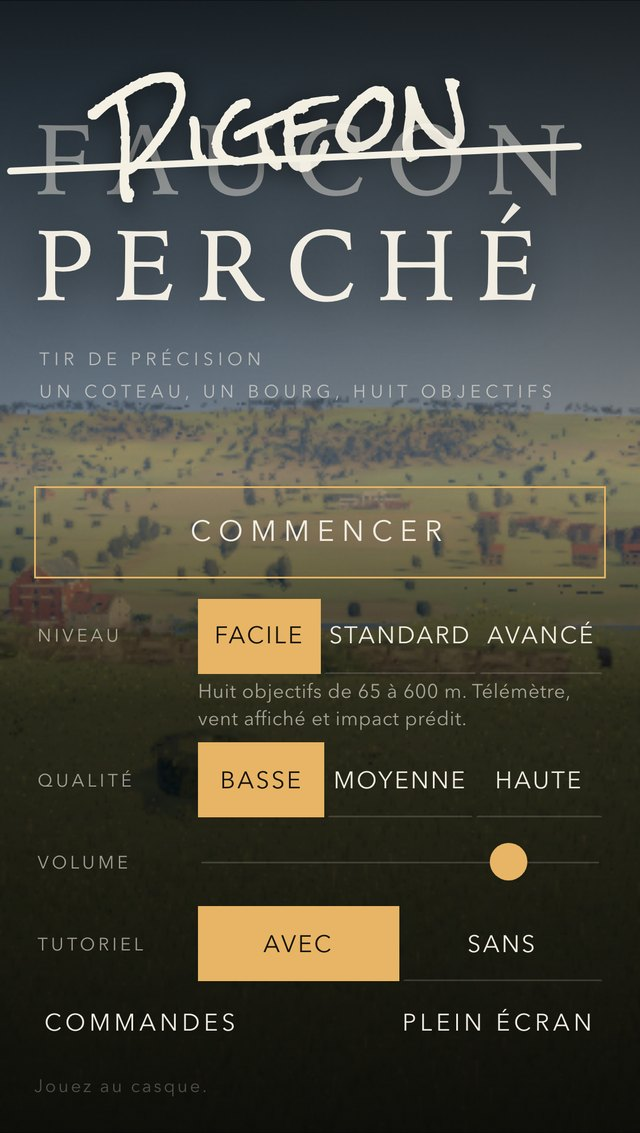
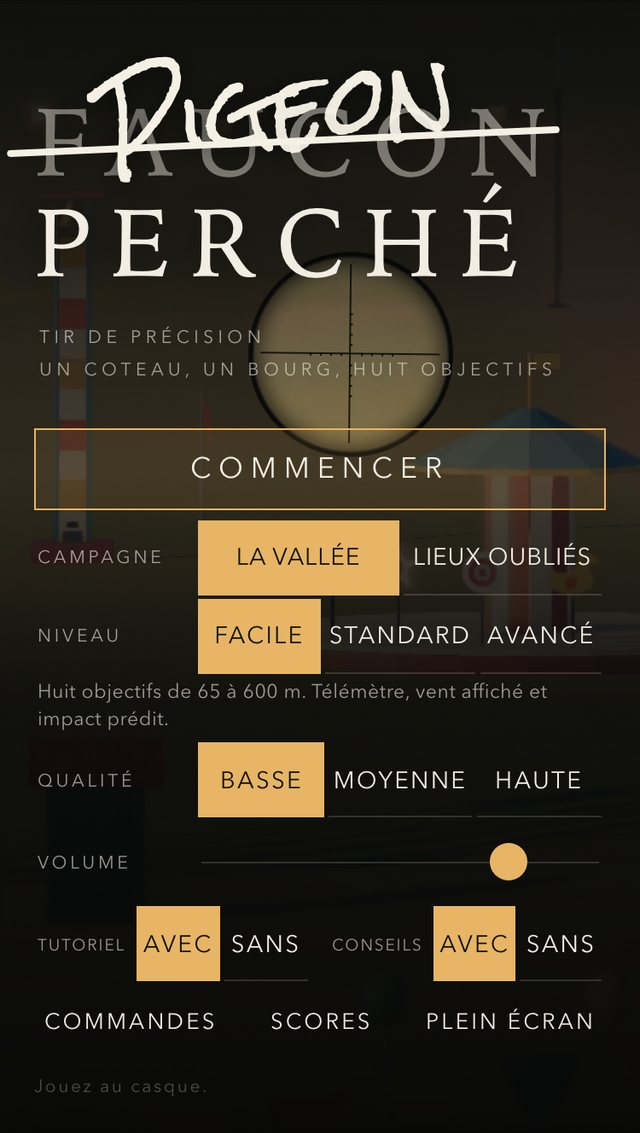
README : captures des nouvelles cartes et du menu, le mrad et le vent expliqués, tirs d'adresse, bouton Conseil, téléphone, tests

diff --git a/README.md b/README.md
@@ -40,7 +40,7 @@ npm install
 npm run dev
 ```
 
-Ouvrez l'adresse affichée (http://127.0.0.1:5173). Jouez au casque. Le premier chargement d'une carte prend quelques secondes.
+Ouvrez l'adresse affichée (http://127.0.0.1:5173). Jouez au casque. Le menu s'affiche tout de suite, sur des vues de cibles prises à la lunette ; la carte choisie se charge en quelques secondes quand on clique sur « Commencer ».
 
 ### Construire la version statique
 
@@ -65,9 +65,9 @@ Les reliefs sont fournis dans `public/terrain/<niveau>/`. Pour les recalculer ap
 
 ```bash
 npm run gen:terrain -- facile
-npm run gen:terrain -- standard
-npm run gen:terrain -- avance
 ```
+
+L'argument est l'identifiant de la carte : `facile`, `standard`, `avance`, `fete`, `phare` ou `plaine`.
 
 ### Installer le navigateur des tests de bout en bout
 
@@ -111,13 +111,19 @@ Trois lieux abandonnés de la banque de bâtiments, vus d'en haut. Les missions 
 
 #### Facile : La Fête foraine
 
+![Le manège de la fête foraine](docs/captures/fete-lunette.jpg)
+
 Fin de journée sur une station balnéaire. Vous êtes sur une terrasse de bois, au sommet du Grand Hôtel, et la fête fermée s'étend à vos pieds le long de la mer : c'est un stand de tir géant. Six séries, de 68 à 420 m : deux plaques pour régler la lunette, six ballons au-dessus des baraques, les plaques de la grande roue (elle tourne par à-coups et s'arrête six secondes à chaque nacelle), les canards et les étoiles du manège, la cloche du tape-fort, puis la guirlande, à éteindre globe après globe, de gauche à droite. Toutes les aides sont là et il n'y a presque pas de vent. Le chrono part à votre premier tir : enchaîner les touches et finir vite rapporte des points, prendre son temps n'en retire aucun.
 
 #### Standard : Le Phare
 
+![Le caboteur au mouillage dans la crique](docs/captures/phare-lunette.jpg)
+
 Vous êtes sur la galerie d'un phare, 34 m au-dessus de la mer. Dans la crique, un caboteur finit de charger : rien ne doit en sortir. Sept objectifs de 260 à 1 200 m, tous sur du matériel — la plaque de réglage sur son îlot, les feux des bouées du chenal, le boîtier du treuil de la grue, la radio et le projecteur du caboteur, le bidon de la barge de ravitaillement, le moteur du canot, la lanterne de la tourelle de la passe. Le tir est plongeant et le vent de mer souffle en rafales : lisez les fanions et tirez dans une accalmie. Pour la barge, il faut descendre au musoir de la digue par la trappe de la galerie, et tirer au ras de l'eau. Le canot est la seule cible qui se déplace : il s'arrête plusieurs secondes à chaque bouée de sa route, et vous avez un peu moins de quatre minutes avant qu'il ne passe la pointe. Bonus pour chaque objectif réussi sans balle perdue et pour un canot arrêté tôt.
 
 #### Avancé : Le Château d'eau
+
+![La médiathèque et son relais radio](docs/captures/plaine-lunette.jpg)
 
 Vous êtes allongé sur la plate-forme d'un château d'eau, trente mètres au-dessus d'une plaine de champs et d'usines, et tout ce qui compte est autour de vous : tournez-vous. Sept sabotages à enchaîner de 900 à 2 400 m — l'émetteur d'un relais, les vannes d'une usine, un signal de chemin de fer, la citerne du convoi qu'il arrête, un drone au-dessus d'une villa, une lunette de surveillance dont le reflet vous trahit, et pour finir l'horloge de la gare. Aucune aide : la distance se vérifie au réticule, le vent se lit aux fanions, aux fumées et à la vapeur des vannes, la balistique est complète. Et la plaine écoute : chaque tir perdu fait monter l'alerte ; au quatrième d'affilée, l'objectif est à reprendre. Rien ne se tire en mouvement.
 
@@ -137,7 +143,7 @@ Les touches sont lues par position physique : ZQSD sur un clavier français, WAS
 | Grossissement | Molette |
 | Tourelle d'élévation | ↑ ↓ par pas de 0,1 mrad (Maj droite : 1 mrad) |
 | Tourelle de dérive | ← → |
-| Télémètre | T (niveaux facile et standard) |
+| Télémètre | T (cartes faciles et standard) |
 | Recharger | R |
 | Râtelier, changer d'arme | E, sous l'abri du site de tir |
 | Carnet de tir | Tab |
@@ -145,17 +151,29 @@ Les touches sont lues par position physique : ZQSD sur un clavier français, WAS
 | Afficher les images par seconde | H |
 | Pause | Échap |
 | Passer le tutoriel | P |
+| Fermer ou rouvrir le conseil | Entrée |
 
 On marche librement sur tout le site de tir, jusqu'à une limite visible : rebord de falaise, pente trop raide, mur ou clôture.
 
-Après trois tirs manqués de suite sur une même cible, un encart « Conseil » rappelle la marche à suivre (mesurer la distance, lire le carnet, reporter l'élévation sur la tourelle, corriger le vent), avec les chiffres de l'arme en main et l'écart mesuré des impacts ; il signale aussi une arme mal adaptée à la distance et propose mieux au râtelier. Il ne met pas le jeu en pause, se ferme par Entrée (ou son bouton, au doigt) et se coupe au menu (« Conseils : Sans »).
+Après trois tirs manqués de suite sur une même cible, un encart « Conseil » rappelle la marche à suivre (mesurer la distance, lire le carnet, reporter l'élévation sur la tourelle, corriger le vent), avec les chiffres de l'arme en main et l'écart mesuré des impacts ; il signale aussi une arme mal adaptée à la distance et propose mieux au râtelier. Il ne met pas le jeu en pause et se ferme par Entrée (ou son bouton, au doigt) ; un bouton « Conseil » reste alors à l'écran pour le rouvrir. Sur téléphone, il se lit dans la lunette, sans quitter la visée. Il se coupe au menu (« Conseils : Sans »).
 
-Couché, l'arme repose sur son bipied. Accroupi contre un appui, elle tremble deux fois plus ; sans appui, quatre fois plus. Le pouls monte quand on court et met une vingtaine de secondes à redescendre. Une boussole et une flèche guident vers le poste conseillé pour l'objectif en cours.
+Couché, l'arme repose sur son bipied. Accroupi contre un appui, elle tremble deux fois plus ; sans appui, quatre fois plus. Le pouls monte quand on court et met une vingtaine de secondes à redescendre. Une boussole et une flèche guident vers le poste conseillé pour l'objectif en cours ; un losange bleu y marque la direction de la cible.
+
+### Le mrad, l'élévation et le vent
+
+Tout le réglage se fait en mrad (milliradian). Un mrad est un angle : il couvre 10 cm à 100 m, 20 cm à 200 m, 1 m à 1 000 m. Le réticule est gradué dans cette unité, et les tourelles avancent par pas de 0,1 mrad.
+
+- **Élévation** : la balle tombe en route. Le carnet de tir donne, pour la distance mesurée, l'angle qui compense cette chute ; on l'affiche à la tourelle d'élévation.
+- **Tir manqué** : l'écart se lit sur le réticule. Un impact 2 mrad sous la cible se corrige en ajoutant 2 mrad d'élévation.
+- **Vent** : la flèche de la rose des vents pointe là où le vent pousse la balle (vers le haut : dans l'axe du tir). Flèche vers la gauche, la balle part à gauche : on corrige la dérive vers la droite.
+
+Le tutoriel de la carte facile (17 étapes) fait pratiquer tout cela sur deux plaques.
 
 ## Scores et classements
 
 À la fin d'une mission réussie, le jeu affiche les vingt meilleurs scores du niveau joué. Si le score y entre, le joueur inscrit son nom : huit caractères au plus, lettres, chiffres, espace et tiret, en majuscules comme sur une borne d'arcade. Le dernier nom utilisé est proposé d'emblée ; « Passer » termine sans s'inscrire. L'accueil montre les cinq premiers de chaque carte de la campagne en cours (l'écran « Scores » passe d'une campagne à l'autre) (sur téléphone : bouton « Scores »).
 
+- **Tirs d'adresse** : un tir en plein centre de la cible rapporte 250 points, un tir sur une cible en mouvement 400, dans la limite de 650 par objectif. Un compliment s'affiche à chaque fois. Ces points s'ajoutent au score avant le coefficient de difficulté.
 - **Tri** : score décroissant ; à score égal, le premier inscrit reste devant. Vingt lignes par niveau.
 - **En ligne** : quand le jeu est servi par son serveur (`npm start`, Docker, mais aussi `npm run dev` et `npm run preview`), le classement est commun à tous les joueurs et enregistré dans un fichier du serveur. L'écran l'indique : « en ligne ».
 - **Local à cet appareil** : sur un hébergement statique simple, ou hors ligne, les scores restent dans le navigateur (`localStorage`) : ils ne sont visibles que sur cet appareil et dans ce navigateur, et disparaissent si l'on efface les données du site. Ce classement local se vide depuis l'écran « Commandes » (bouton « Effacer », avec confirmation).
@@ -170,7 +188,8 @@ Le serveur vérifie chaque inscription (niveau connu, nom nettoyé, score entre 
 Sur un appareil tactile, le jeu affiche ses commandes à l'écran et se joue en portrait ; à l'horizontale, il demande de redresser le téléphone. Les tablettes acceptent les deux sens.
 
 - **Hors lunette** : manette flottante sous le pouce gauche, regard en glissant partout ailleurs, boutons de posture, d'épaulement et de rechargement sous le pouce droit.
-- **En lunette** : le champ occupe le haut de l'écran ; dessous, les tourelles (0,1 et 1 mrad), le grossissement et le télémètre ; tout en bas, Souffle, Quitter et Tirer.
+- **En lunette** : le champ occupe le haut de l'écran ; dessous, les tourelles (0,1 et 1 mrad), le grossissement et le télémètre ; tout en bas, Souffle, Quitter et Tirer. Le doigt déplace la visée d'autant plus vite que le grossissement est faible, et une petite flèche au bord du champ indique la cible quand elle en est sortie.
+- **Chargement** : le menu s'affiche avant la carte, et le relief, le ciel et les textures de la carte sélectionnée sont préchargés en arrière-plan, sauf en connexion limitée.
 - **Gestes du navigateur neutralisés** : double tap, pincement de page, défilement élastique.
 - **iPhone** : Safari n'offre pas de plein écran à une page web. Ajouter la page à l'écran d'accueil (Partager, puis « Sur l'écran d'accueil ») retire les barres du navigateur.
 
@@ -238,7 +257,7 @@ docker build -t pigeon-perche .
 docker run -d --name pigeon-perche -p 8080:8080 -v pigeon-scores:/data pigeon-perche
 ```
 
-L'image est construite en deux étapes ; l'image finale ne contient que `dist/` et le serveur, tourne sous un utilisateur non privilégié et déclare un contrôle de santé (`/healthz`). Le classement est dans le volume monté sur `/data` : il survit aux redémarrages et aux mises à jour de l'image.
+L'image est construite en deux étapes ; les fichiers sont précompressés en Brotli à la construction et servis avec un cache long, lié à une empreinte de leur contenu. L'image finale ne contient que `dist/` et le serveur, tourne sous un utilisateur non privilégié et déclare un contrôle de santé (`/healthz`). Le classement est dans le volume monté sur `/data` : il survit aux redémarrages et aux mises à jour de l'image.
 
 ### Sans Docker
 
@@ -273,11 +292,11 @@ Le serveur parle HTTP : pour le HTTPS, placez-le derrière un mandataire inverse
 ## Tests
 
 ```bash
-npm test                 # tests unitaires (balistique, vol, lots des bâtiments, classement, conseils)
+npm test                 # tests unitaires (balistique, vol, lots des bâtiments, classement, conseils, tirs d'adresse, cartes)
 npm run build            # vérification des types puis construction
 ```
 
-Tests de bout en bout (après `npm run e2e:install`). Chaque script accepte `-- --level facile|standard|avance` et vise `standard` par défaut :
+Tests de bout en bout (après `npm run e2e:install`). Chaque script accepte `-- --level <carte>` (`facile`, `standard`, `avance`, `fete`, `phare`, `plaine`) et vise `standard` par défaut :
 
 ```bash
 npm run e2e:smoke        # menu, briefing, jeu, carnet, pause
@@ -286,13 +305,15 @@ npm run e2e:mission:portrait
 npm run e2e:matrix       # chaque cible est visible d'au moins un poste
 npm run e2e:walk         # parcours à pied vers chaque poste, et marche droit vers le bord dans huit directions
 npm run e2e:mobile       # commandes tactiles en portrait
-npm run e2e:tutorial     # les 16 étapes du tutoriel
+npm run e2e:tutorial     # les 17 étapes du tutoriel
 npm run e2e:rifles       # cotes et coût des 17 modèles d'armes
 npm run e2e:physics      # tir réel contre solution calculée, effets avancés
 npm run e2e:buildings    # banc d'essai des bâtiments
 npm run e2e:perf         # temps par image des vues de référence
 npm run e2e:scores       # classements : API du serveur, repli local, ordinateur et portrait (lance son propre serveur sur dist/)
 npm run e2e:coach        # conseil après tirs manqués
+HR_URL=http://127.0.0.1:4173/ PLAYWRIGHT_BROWSERS_PATH=0 node e2e/menu.mjs          # menu affiché avant la carte, chargement au clic (avec npm run preview)
+HR_URL=http://127.0.0.1:4173/ PLAYWRIGHT_BROWSERS_PATH=0 node e2e/coach-button.mjs  # bouton qui rouvre le conseil
 PLAYWRIGHT_BROWSERS_PATH=0 node e2e/zone.mjs     # zone de marche : aucune limite invisible
 PLAYWRIGHT_BROWSERS_PATH=0 node e2e/routes.mjs   # captures des voies d'accès et des cours d'eau
 ```
@@ -319,7 +340,7 @@ src/
   shared/      cœur du classement, commun au jeu et au serveur
   audio/       moteur sonore synthétisé ; tir hybride (attaque enregistrée, shot-*.ts)
   ui/          interface, commandes tactiles, styles
-public/        relief, textures, modèles, ciel, police du titre, icônes
+public/        relief, textures, modèles, ciel, images du fond de menu, police du titre, icônes
 tools/         générateur de relief et d'icônes
 tests/         tests unitaires (Vitest)
 e2e/           tests de bout en bout (Playwright)
